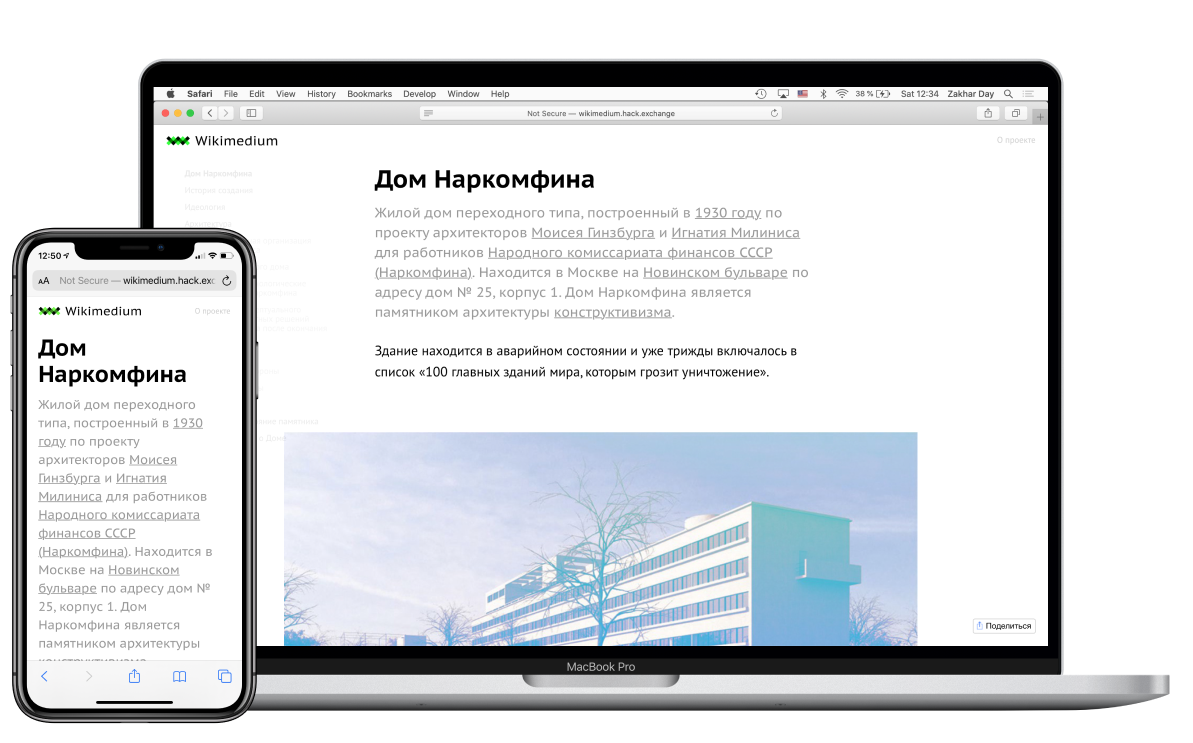
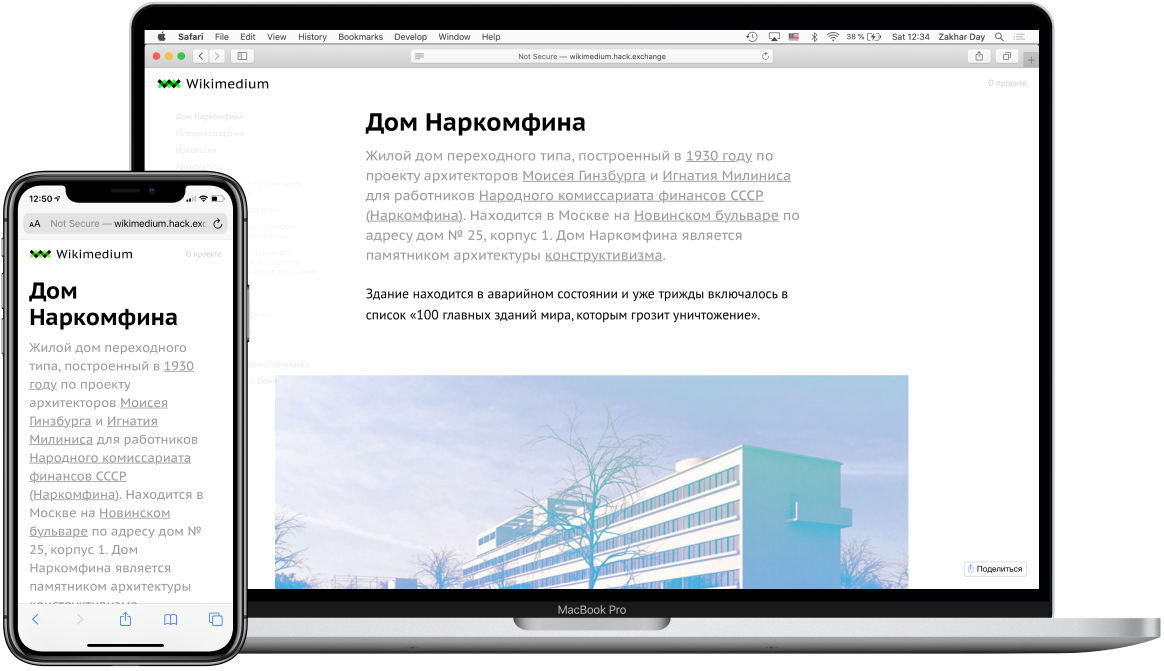
вёрстка и стилизация первых трёх секций about.html

diff --git a/about.html b/about.html
@@ -6,19 +6,19 @@
     <title>О проекте</title>
     <link rel="stylesheet" href="stylesheets/style.css" />
   </head>
-  <body>
+  <body class="about-page">
     <nav class="menubar">
       <a href="index.html">Главная</a>
       <a href="about.html">О проекте</a>
     </nav>
 
     <main class="about">
-      <section>
+      <section class="section-1">
         <div>
-          <h2>Наглядный пример, чтобы учиться веб-вёрстке</h2>
+          <h2>Наглядный пример, чтобы&nbsp;учиться веб-вёрстке</h2>
           <p>
             Разработан для изучения основ веб-вёрстки, языка гипертекстовой
-            разметки HTML и каскадных таблиц стилей CSS
+            разметки HTML и&nbsp;каскадных таблиц стилей CSS
           </p>
         </div>
 
@@ -27,13 +27,16 @@
         </div>
       </section>
 
-      <section>
+      <section class="section-2">
         <div>
           <img src="images/about2.png" alt="" />
         </div>
 
         <div>
-          <h2>С нуля до первого сайта под компьютеры, смартфоны и планшеты</h2>
+          <h2>
+            С нуля до первого сайта под&nbsp;компьютеры, смартфоны
+            и&nbsp;планшеты
+          </h2>
           <p>
             Чтобы начать изучать веб-вёрстку на этом проекте, не требуется
             каких-то специальных знаний, кроме базового умения пользоваться
@@ -42,14 +45,14 @@
         </div>
       </section>
 
-      <section>
+      <section class="section-3">
         <div>
           <h2>Реальный проект, реальный рабочий процесс</h2>
           <p>
             Обучение приближено к работе в реальной жизни, работа разбита на
             этапы от типографики, создания меню и использования эффектов, до
-            адаптации под мобильные устройства и использования JavaScript
-            скриптов
+            адаптации под&nbsp;мобильные устройства и использования
+            JavaScript&nbsp;скриптов
           </p>
         </div>
 

diff --git a/stylesheets/layout.css b/stylesheets/layout.css
@@ -1,3 +1,4 @@
+/* общие стили */
 * {
   box-sizing: border-box;
 }
@@ -7,6 +8,7 @@ html {
 body {
   font-family: Arial, Helvetica, sans-serif;
 }
+/* стилия для статьи */
 h1,
 h2,
 h3,
@@ -148,4 +150,77 @@ blockquote::before {
 .menubar a:hover {
   color: #666;
   text-decoration: underline;
+}
+
+/* стили для about.html */
+/* .about-page::before {
+  content: '';
+  width: 1440px;
+  height: 3120px;
+  background-image: url('../images/1440.png');
+  position: absolute;
+  opacity: 0.2;
+} */
+.about h2,
+.about p,
+.about img {
+  margin: 0;
+  width: 100%;
+}
+.about h2 {
+  font-weight: 400;
+  font-size: 36px;
+  line-height: 1.2;
+}
+.about p {
+  margin-top: 30px;
+  font-size: 24px;
+  line-height: 1.5;
+}
+.section-1 div,
+.section-2 div,
+.section-3 div {
+  width: 50%;
+  overflow-x: hidden;
+}
+.section-1 {
+  margin-top: 170px;
+  display: flex;
+}
+.section-1 div:nth-of-type(1),
+.section-3 div:nth-of-type(1) {
+  padding-left: 120px;
+  padding-right: 80px;
+}
+.section-3 div:nth-of-type(1) {
+  padding-right: 0;
+}
+.section-1 img {
+  width: 1090px;
+  margin-left: 50px;
+}
+.section-2 {
+  display: flex;
+  margin-top: 110px;
+}
+.section-2 img {
+  width: 650px;
+  margin-left: 78px;
+}
+.section-2 div:nth-of-type(2) {
+  /* padding-top: 50px;
+  padding-left: 40px;
+  padding-right: 70px; */
+  padding: 50px 70px 0 40px;
+}
+.section-3 {
+  display: flex;
+  margin-top: 190px;
+}
+.section-3 img {
+  width: 1050px;
+  margin-left: 40px;
+  margin-top: 10px;
+  border-left: 1px solid #d7d7d7;
+  border-radius: 6px;
 }
